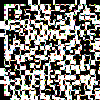
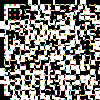
Updated canada.pymy1.png .

diff --git a/canada.py b/canada.py
@@ -31,7 +31,7 @@ moverPieza(outp,18,1,0,0)
 moverPieza(outp,0,16,0,12)
 moverPieza(outp,1,4,0,3)
 moverPieza(outp,1,9,0,11)
-moverPieza(outp,2,8,0,7)
+moverPieza(outp,2,8,0,4)
 moverPieza(outp,3,0,0,14)
 moverPieza(outp,4,7,0,9)
 moverPieza(outp,5,3,0,17)
@@ -40,7 +40,7 @@ moverPieza(outp,8,8,0,1)
 moverPieza(outp,10,1,0,5)
 moverPieza(outp,11,11,0,8)
 moverPieza(outp,12,16,0,10)
-moverPieza(outp,13,6,0,4)
+moverPieza(outp,13,6,0,7)
 moverPieza(outp,15,5,0,2)
 moverPieza(outp,16,5,0,16)
 moverPieza(outp,17,4,0,15)
